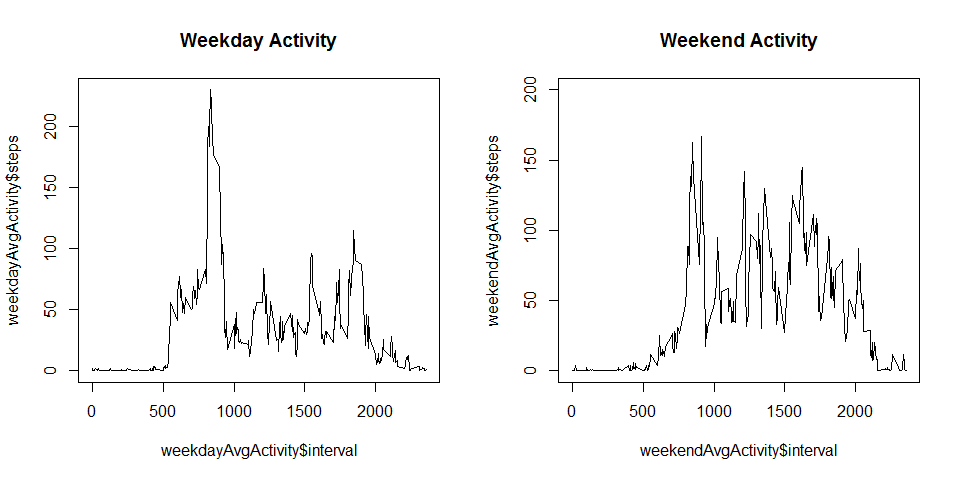
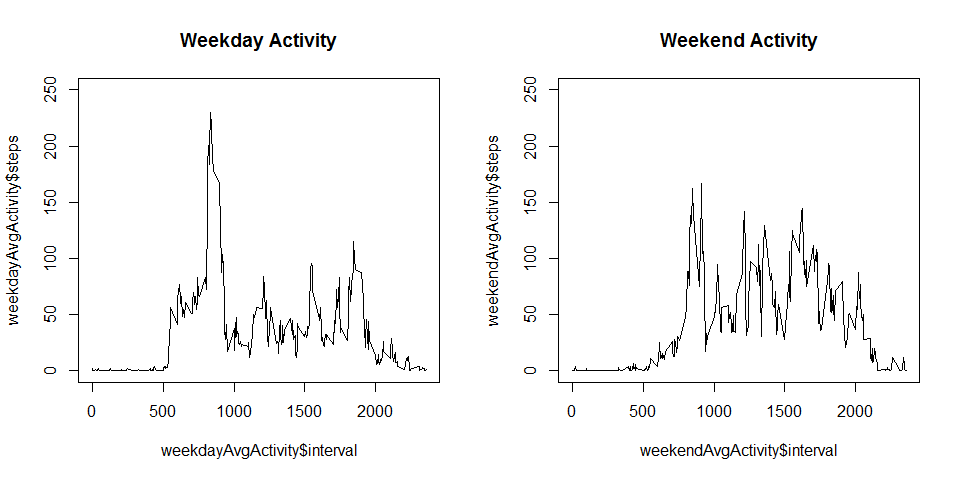
Files for Wk1 Assignment

diff --git a/PA1_template.html b/PA1_template.html
@@ -141,8 +141,8 @@ hist(totalStepsPerDay$steps, xlab = &quot;Total number of steps each day&quot;, 
 <h2>What is the average daily activity pattern?</h2>
 <p>Time series plot of the average number of steps taken</p>
 <pre class="r"><code>avgActivity &lt;- aggregate(steps ~ interval, activity, mean)
-plot(avgActivity$interval, avgActivity$steps, col = &quot;red&quot;, type= &quot;l&quot;, main = &quot;&quot;, xlab = &quot;5-minute interval&quot;, ylab = &quot;Average number of steps&quot;)</code></pre>
[1 lines of base64/hex data omitted]
+plot(avgActivity$interval, avgActivity$steps, col = &quot;red&quot;, type= &quot;l&quot;, xlab = &quot;5-minute interval&quot;, ylab = &quot;Average number of steps&quot;, main = &quot;Average number of steps during a day&quot;)</code></pre>
[1 lines of base64/hex data omitted]
 <p>The 5-minute interval that, on average, contains the maximum number of steps</p>
 <pre class="r"><code>maxStepsInterval &lt;- arrange(avgActivity, desc(avgActivity$steps))</code></pre>
 <p>The 5-minute interval with max number of steps on average is interval <strong>835</strong> with <strong>206.1698113</strong> steps.</p>
@@ -207,9 +207,9 @@ weekdayActivity &lt;- imputeActivity[imputeActivity$day.of.the.week == &quot;wee
 weekdayAvgActivity &lt;- aggregate(steps ~ interval, weekdayActivity, mean)
 
 par(mfrow=c(1,2))
-plot(weekdayAvgActivity$interval, weekdayAvgActivity$steps, type = &quot;l&quot;, main = &quot;Weekday Activity&quot;)
-plot(weekendAvgActivity$interval, weekendAvgActivity$steps, type = &quot;l&quot;, main = &quot;Weekend Activity&quot;, ylim = c(0, 200))</code></pre>
[1 lines of base64/hex data omitted]
+plot(weekdayAvgActivity$interval, weekdayAvgActivity$steps, type = &quot;l&quot;, main = &quot;Weekday Activity&quot;, ylim = c(0, 250))
+plot(weekendAvgActivity$interval, weekendAvgActivity$steps, type = &quot;l&quot;, main = &quot;Weekend Activity&quot;, ylim = c(0, 250))</code></pre>
[1 lines of base64/hex data omitted]
 </div>
 
 

diff --git a/PA1_template.md b/PA1_template.md
@@ -66,7 +66,7 @@ Time series plot of the average number of steps taken
 
 ```r
 avgActivity <- aggregate(steps ~ interval, activity, mean)
-plot(avgActivity$interval, avgActivity$steps, col = "red", type= "l", main = "", xlab = "5-minute interval", ylab = "Average number of steps")
+plot(avgActivity$interval, avgActivity$steps, col = "red", type= "l", xlab = "5-minute interval", ylab = "Average number of steps", main = "Average number of steps during a day")
 ```
 
 ![](PA1_template_files/figure-html/unnamed-chunk-7-1.png)
@@ -188,8 +188,8 @@ weekdayActivity <- imputeActivity[imputeActivity$day.of.the.week == "weekday",]
 weekdayAvgActivity <- aggregate(steps ~ interval, weekdayActivity, mean)
 
 par(mfrow=c(1,2))
-plot(weekdayAvgActivity$interval, weekdayAvgActivity$steps, type = "l", main = "Weekday Activity")
-plot(weekendAvgActivity$interval, weekendAvgActivity$steps, type = "l", main = "Weekend Activity", ylim = c(0, 200))
+plot(weekdayAvgActivity$interval, weekdayAvgActivity$steps, type = "l", main = "Weekday Activity", ylim = c(0, 250))
+plot(weekendAvgActivity$interval, weekendAvgActivity$steps, type = "l", main = "Weekend Activity", ylim = c(0, 250))
 ```
 
 ![](PA1_template_files/figure-html/unnamed-chunk-17-1.png)
